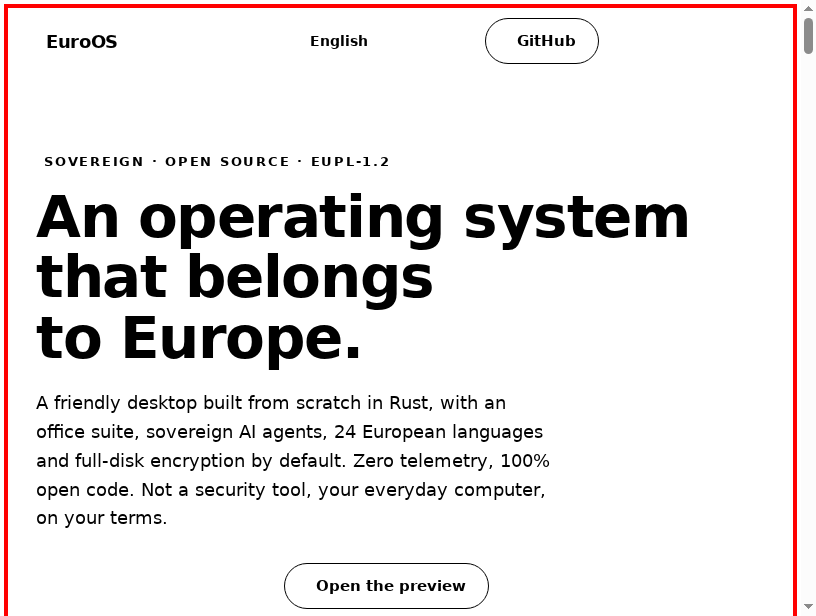
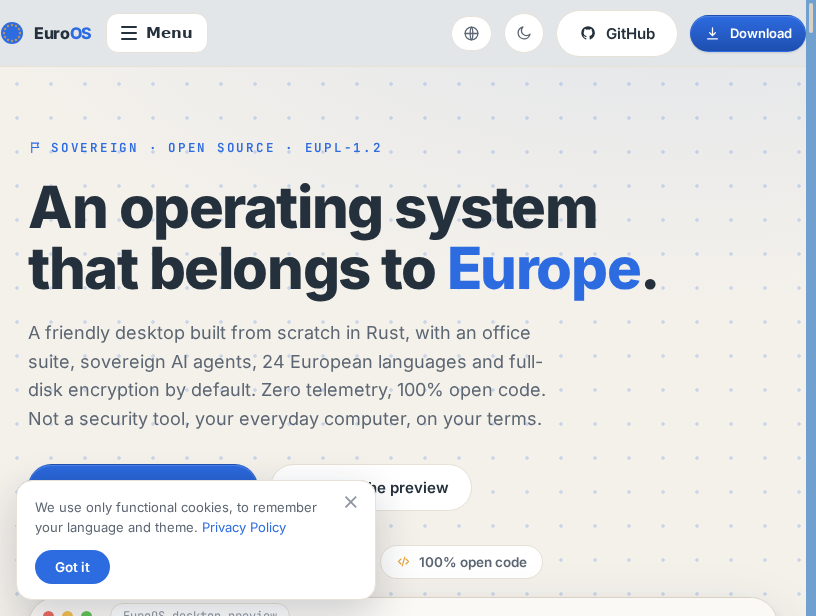
Capture a later frame: the multi-process render is complete after all
The frame shipped yesterday was the FIRST one the screencast delivered, and
the first frame arrives while the page is still loading: stylesheets and
webfonts land after it, and the pump then closed the browser before the
rest could arrive. That is why the multi-process render looked poorer than
the single-process one, and the caveat in that commit was about the capture,
not about the renderer.

The pump now keeps the newest frame and ships the sixth. Same page, same
build: 180 KB PNG, 4201 colours against 251, and it is the whole site -
logo, menu, webfonts, the dotted background, the blue accent, the cookie
banner, the buttons, the desktop preview panel.

docs/proof/2026-09-03-out-of-process-renderer-paints-live-site.png replaced
with that frame. An out-of-process renderer, fetching over TLS, drawing a
real website, on real hardware.

Changed region(s): [[0.0, 0.0, 1.0, 1.0]]

diff --git a/kernel/src/ring3.rs b/kernel/src/ring3.rs
@@ -773,6 +773,8 @@ pub fn thread_name(t: usize) -> String {
 }
 /// Set once the frame wait has been abandoned (see the give-up in the pump).
 static CDP_GAVE_UP: core::sync::atomic::AtomicBool = core::sync::atomic::AtomicBool::new(false);
+/// Screencast frames seen so far (the first ones show a page mid-load).
+static CAST_FRAMES: core::sync::atomic::AtomicU32 = core::sync::atomic::AtomicU32::new(0);
 static CDP_URL: Mutex<String> = Mutex::new(String::new());
 static CDP_SESSION: Mutex<String> = Mutex::new(String::new());
 /// The DOM chrome sent back (empty until it arrives).
@@ -1519,7 +1521,19 @@ pub fn cdp_pump() {
             }
             match json_str(&msg, "data") {
                 Some(b64) => {
-                    crate::serial_println!("[cast] ★★★ SCREENCAST FRAME: {} base64 chars", b64.len());
+                    // NOT the first frame: a LATER one. The first frame arrives while
+                    // the page is still loading - stylesheets and webfonts land after
+                    // it - so shipping it immediately captures a half-dressed page and
+                    // closes the browser before the rest arrives. Keep the newest and
+                    // ship after a few, which costs seconds and shows the real page.
+                    const WANT_FRAMES: u32 = 6;
+                    let n = CAST_FRAMES.fetch_add(1, Ordering::Relaxed) + 1;
+                    if n < WANT_FRAMES {
+                        crate::serial_println!("[cast] frame {n}/{WANT_FRAMES} ({} base64 chars), waiting for a later one",
+                            b64.len());
+                        return;
+                    }
+                    crate::serial_println!("[cast] ★★★ SCREENCAST FRAME {n}: {} base64 chars", b64.len());
                     let mut i = 0;
                     while i < b64.len() {
                         let end = (i + 512).min(b64.len());
